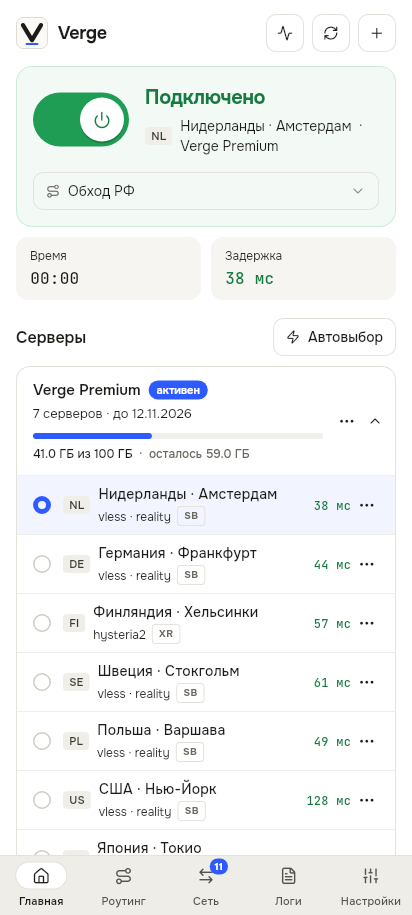
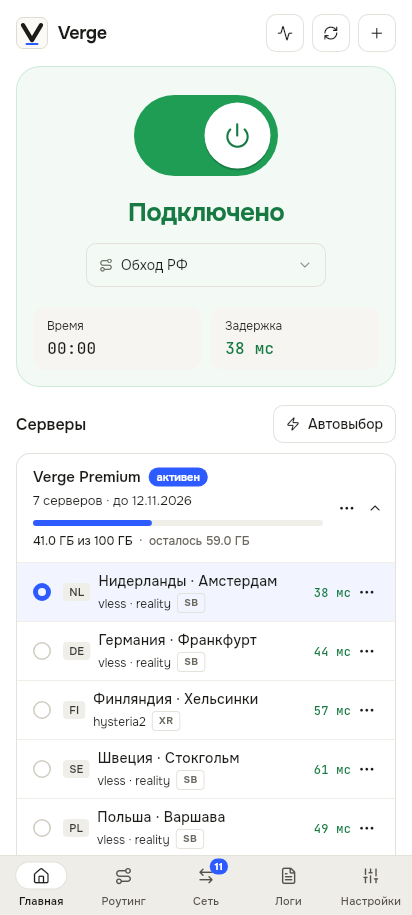
Android: главный экран — крупный тумблер по центру
На телефоне карточка подключения перестроена по макету: тумблер в 1,5 раза
крупнее и по центру (под большой палец), под ним статус и выбор роутинга,
внизу карточки — время и задержка. Десктоп не меняется.

Claude-Session: https://claude.ai/code/session_01DsnWdr3tLeESzVa9aMTAq1

diff --git a/lib/ui/widgets/hero_panel.dart b/lib/ui/widgets/hero_panel.dart
@@ -189,46 +189,100 @@ class _HeroPanelState extends State<HeroPanel> {
       ?modeSwitch,
       if (c.routingProfiles.isNotEmpty) ...[
         if (modeSwitch != null) const SizedBox(height: 8),
-        _RoutingSelect(controller: c),
+        _RoutingSelect(controller: c, height: compact ? 44 : 38),
       ],
     ];
 
     // Телефон: тумблер и статус в строку, режим и роутинг — под ними во всю
     // ширину.
-    final Widget card = compact
-        ? Column(
-            crossAxisAlignment: CrossAxisAlignment.stretch,
-            children: [
-              Row(
-                children: [
-                  toggle,
-                  const SizedBox(width: 16),
-                  Expanded(child: status),
-                ],
+    // Скорость загрузки и отдачи — в сайдбаре, здесь не дублируем.
+    final stats = Row(
+      children: [
+        Expanded(
+          child: StatTile(
+            label: 'Время',
+            child: Text(running
+                ? _formatUptime(
+                    DateTime.now().difference(c.connectedAt ?? DateTime.now()))
+                : '—'),
+          ),
+        ),
+        const SizedBox(width: 10),
+        Expanded(
+          child: StatTile(
+            label: 'Задержка',
+            child: running && c.settings.gstaticPingEnabled
+                ? _heroPing(context, c)
+                : const Text('—'),
+          ),
+        ),
+      ],
+    );
+
+    // Телефон: крупный тумблер по центру — под большой палец, под ним статус
+    // и роутинг, внизу карточки время и задержка. Сервер виден в списке ниже.
+    if (compact) {
+      return AnimatedContainer(
+        duration: const Duration(milliseconds: 250),
+        padding: const EdgeInsets.fromLTRB(16, 28, 16, 16),
+        decoration: BoxDecoration(
+          color: cardBg,
+          borderRadius: BorderRadius.circular(24),
+          border: Border.all(color: cardBorder),
+        ),
+        child: Column(
+          children: [
+            ConnectToggle(
+              running: running,
+              connecting: connecting,
+              onTap: _togglePower,
+              scale: 1.5,
+            ),
+            const SizedBox(height: 18),
+            Text(
+              title,
+              textAlign: TextAlign.center,
+              style: TextStyle(
+                fontSize: 26,
+                fontWeight: FontWeight.w700,
+                letterSpacing: -0.5,
+                color: titleColor,
               ),
-              if (controls.isNotEmpty) ...[
-                const SizedBox(height: 16),
-                ...controls,
-              ],
-            ],
-          )
-        : Row(
-            children: [
-              toggle,
-              const SizedBox(width: 22),
-              Expanded(child: status),
-              if (controls.isNotEmpty) ...[
-                const SizedBox(width: 16),
-                SizedBox(
-                  width: 236,
-                  child: Column(
-                    crossAxisAlignment: CrossAxisAlignment.stretch,
-                    children: controls,
-                  ),
+            ),
+            if (controls.isNotEmpty) ...[
+              const SizedBox(height: 12),
+              SizedBox(
+                width: 240,
+                child: Column(
+                  crossAxisAlignment: CrossAxisAlignment.stretch,
+                  children: controls,
                 ),
-              ],
+              ),
             ],
-          );
+            const SizedBox(height: 20),
+            stats,
+          ],
+        ),
+      );
+    }
+
+    final Widget card = Row(
+      children: [
+        toggle,
+        const SizedBox(width: 22),
+        Expanded(child: status),
+        if (controls.isNotEmpty) ...[
+          const SizedBox(width: 16),
+          SizedBox(
+            width: 236,
+            child: Column(
+              crossAxisAlignment: CrossAxisAlignment.stretch,
+              children: controls,
+            ),
+          ),
+        ],
+      ],
+    );
 
     return Column(
       crossAxisAlignment: CrossAxisAlignment.stretch,
@@ -236,9 +290,7 @@ class _HeroPanelState extends State<HeroPanel> {
       children: [
         AnimatedContainer(
           duration: const Duration(milliseconds: 250),
-          padding: compact
-              ? const EdgeInsets.all(16)
-              : const EdgeInsets.symmetric(horizontal: 22, vertical: 20),
+          padding: const EdgeInsets.symmetric(horizontal: 22, vertical: 20),
           decoration: BoxDecoration(
             color: cardBg,
             borderRadius: BorderRadius.circular(16),
@@ -247,29 +299,7 @@ class _HeroPanelState extends State<HeroPanel> {
           child: card,
         ),
         const SizedBox(height: 10),
-        // Скорость загрузки и отдачи — в сайдбаре, здесь не дублируем.
-        Row(
-          children: [
-            Expanded(
-              child: StatTile(
-                label: 'Время',
-                child: Text(running
-                    ? _formatUptime(DateTime.now()
-                        .difference(c.connectedAt ?? DateTime.now()))
-                    : '—'),
-              ),
-            ),
-            const SizedBox(width: 10),
-            Expanded(
-              child: StatTile(
-                label: 'Задержка',
-                child: running && c.settings.gstaticPingEnabled
-                    ? _heroPing(context, c)
-                    : const Text('—'),
-              ),
-            ),
-          ],
-        ),
+        stats,
       ],
     );
   }
@@ -309,8 +339,11 @@ class _HeroPanelState extends State<HeroPanel> {
 }
 
 class _RoutingSelect extends StatelessWidget {
-  const _RoutingSelect({required this.controller});
+  const _RoutingSelect({required this.controller, this.height = 38});
   final AppController controller;
+
+  /// На телефоне выше — под палец.
+  final double height;
 
   @override
   Widget build(BuildContext context) {
@@ -324,7 +357,7 @@ class _RoutingSelect extends StatelessWidget {
     }
 
     return SizedBox(
-      height: 38,
+      height: height,
       child: ShadSelect<String>(
         minWidth: 236,
         padding: const EdgeInsets.symmetric(horizontal: 12, vertical: 4),
